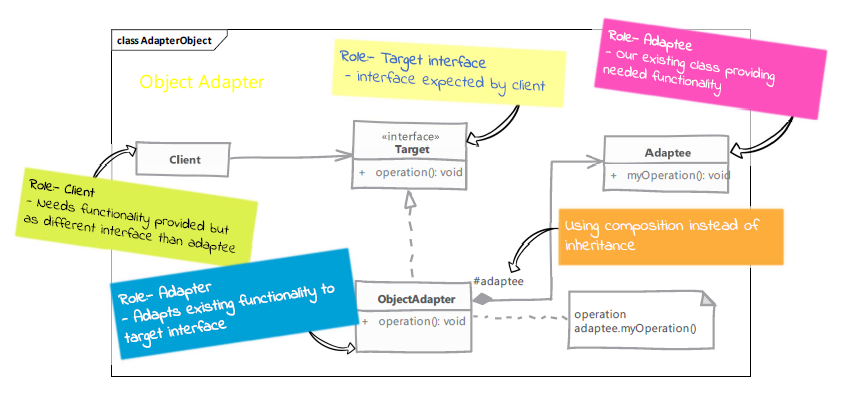
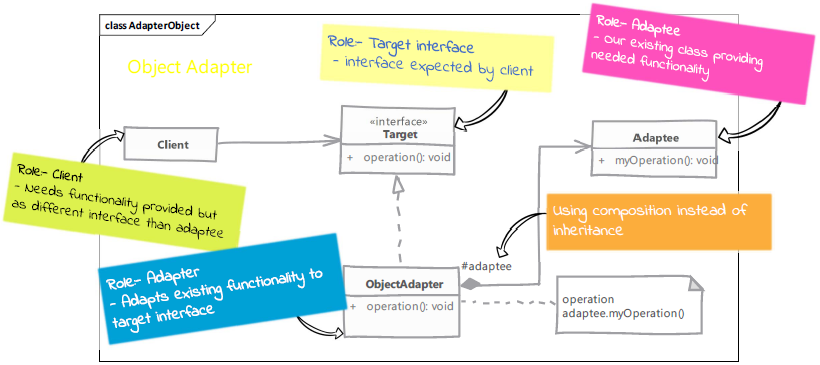
structural - adapter design pattern

Changed region(s): [[0.0, 0.0, 1.0, 0.9644], [0.4573, 0.5123, 0.4878, 0.5726]]

diff --git a/data/dp/structural.json.js b/data/dp/structural.json.js
@@ -46,58 +46,146 @@ var structural_ans = [
     {   /* Adapter */
         id : 1,
 		"text" : function(){/*
-<p style="text-align: justify;">TODO</p>
-<p><img src="data/dp/images/structural/1.1.class_adapter.png" alt="" width="800" height="400"/></p>
+<h3 style="text-align: justify;">Intent</h3>
+<p style="text-align: justify;">The <strong>Adapter</strong> pattern converts the interface of the <strong>adaptee-class</strong>
+into the <strong>target-interface</strong> that a client requires. It acts as an intermediary and lets classes work together
+that couldn’t otherwise because of an incompatible interface. The Adapter pattern is also known as <strong>Wrapper</strong>.</p>
+<h3 style="text-align: justify;">Benefits</h3>
+<ol>
+	<li style="text-align: justify;">It allows two or more previously incompatible objects to interact.</li>
+	<li style="text-align: justify;">It allows reusability of existing functionality.</li>
+</ol>
+<h3 style="text-align: justify;">Usecases</h3>
+<ol>
+	<li style="text-align: justify;">An object needs to utilize an existing class with an incompatible interface.</li>
+	<li style="text-align: justify;">You want to create a reusable class that cooperates with classes that don’t necessarily have compatible interfaces.</li>
+</ol>
+
+<p style="text-align: justify;">There are two variations of this pattern:</p>
+<ol>
+	<li style="text-align: justify;"><strong>Class Adapter</strong> — adapter <strong>extends (is-a)</strong> adaptee
+	and implements the target interface</li>
+	<li style="text-align: justify;"><strong>Object Adapter</strong> — adapter is <strong>composed of (has-a)</strong> adaptee
+	and implements the target interface</li>
+</ol>
+<p><img src="data/dp/images/structural/1.1.class_adapter.png" alt="" width="100%"/></p>
 <p style="text-align: justify;">&nbsp;</p>
-<p><img src="data/dp/images/structural/1.2.object_adapter.png" alt="" width="800" height="400"/></p>
+	<p><img src="data/dp/images/structural/1.2.object_adapter.png" alt="" width="100%"/></p>
+<p>Reference: <a href="https://github.com/rahulmitt/design-patterns/tree/master/structural/src/main/java/com/rahulmitt/interviewpedia/dp/structural/adapter" target="_blank">Github — Adapter Design Pattern</a></p>
         */}.toString().slice(14,-3)
     },
 
     {   /* Bridge */
         id : 2,
 		"text" : function(){/*
+<h3 style="text-align: justify;">Intent</h3>
 <p style="text-align: justify;">TODO</p>
-<p><img src="data/dp/images/structural/2.bridge.png" alt="" width="800" height="400"/></p>
+<h3 style="text-align: justify;">Benefits</h3>
+<ol>
+	<li style="text-align: justify;">TODO</li>
+</ol>
+<h3 style="text-align: justify;">Usecases</h3>
+<ol>
+	<li style="text-align: justify;">TODO</li>
+</ol>
+<p><img src="data/dp/images/structural/2.bridge.png" alt="" width="100%"/></p>
+
+<p>Reference: <a href="TODO" target="_blank">Github — Bridge Design Pattern</a></p>
         */}.toString().slice(14,-3)
     },
 
 	{   /* Composite */
 		id : 3,
 		"text" : function(){/*
+<h3 style="text-align: justify;">Intent</h3>
 <p style="text-align: justify;">TODO</p>
-<p><img src="data/dp/images/structural/4.composite.png" alt="" width="800" height="400"/></p>
+<h3 style="text-align: justify;">Benefits</h3>
+<ol>
+	<li style="text-align: justify;">TODO</li>
+</ol>
+<h3 style="text-align: justify;">Usecases</h3>
+<ol>
+	<li style="text-align: justify;">TODO</li>
+</ol>
+<p><img src="data/dp/images/structural/3.composite.png" alt="" width="100%"/></p>
+
+<p>Reference: <a href="TODO" target="_blank">Github — Composite Design Pattern</a></p>
         */}.toString().slice(14,-3)
 	},
 
     {   /* Decorator */
         id : 4,
 		"text" : function(){/*
+<h3 style="text-align: justify;">Intent</h3>
 <p style="text-align: justify;">TODO</p>
-<p><img src="data/dp/images/structural/3.decorator.png" alt="" width="800" height="400"/></p>
+<h3 style="text-align: justify;">Benefits</h3>
+<ol>
+	<li style="text-align: justify;">TODO</li>
+</ol>
+<h3 style="text-align: justify;">Usecases</h3>
+<ol>
+	<li style="text-align: justify;">TODO</li>
+</ol>
+<p><img src="data/dp/images/structural/4.decorator.png" alt="" width="100%"/></p>
+
+<p>Reference: <a href="TODO" target="_blank">Github — Decorator Design Pattern</a></p>
         */}.toString().slice(14,-3)
     },
 
     {   /* Facade */
         id : 5,
 		"text" : function(){/*
+<h3 style="text-align: justify;">Intent</h3>
 <p style="text-align: justify;">TODO</p>
-<p><img src="data/dp/images/structural/5.facade.png" alt="" width="800" height="400"/></p>
+<h3 style="text-align: justify;">Benefits</h3>
+<ol>
+	<li style="text-align: justify;">TODO</li>
+</ol>
+<h3 style="text-align: justify;">Usecases</h3>
+<ol>
+	<li style="text-align: justify;">TODO</li>
+</ol>
+<p><img src="data/dp/images/structural/5.facade.png" alt="" width="100%"/></p>
+
+<p>Reference: <a href="TODO" target="_blank">Github — Facade Design Pattern</a></p>
         */}.toString().slice(14,-3)
     },
 
     {   /* Flyweight */
         id : 6,
 		"text" : function(){/*
+<h3 style="text-align: justify;">Intent</h3>
 <p style="text-align: justify;">TODO</p>
-<p><img src="data/dp/images/structural/6.flyweight.png" alt="" width="800" height="400"/></p>
+<h3 style="text-align: justify;">Benefits</h3>
+<ol>
+	<li style="text-align: justify;">TODO</li>
+</ol>
+<h3 style="text-align: justify;">Usecases</h3>
+<ol>
+	<li style="text-align: justify;">TODO</li>
+</ol>
+<p><img src="data/dp/images/structural/6.flyweight.png" alt="" width="100%"/></p>
+
+<p>Reference: <a href="TODO" target="_blank">Github — Flyweight Design Pattern</a></p>
         */}.toString().slice(14,-3)
     },
 
     {   /* Proxy */
         id : 7,
 		"text" : function(){/*
+<h3 style="text-align: justify;">Intent</h3>
 <p style="text-align: justify;">TODO</p>
-<p><img src="data/dp/images/structural/7.proxy.png" alt="" width="800" height="400"/></p>
+<h3 style="text-align: justify;">Benefits</h3>
+<ol>
+	<li style="text-align: justify;">TODO</li>
+</ol>
+<h3 style="text-align: justify;">Usecases</h3>
+<ol>
+	<li style="text-align: justify;">TODO</li>
+</ol>
+<p><img src="data/dp/images/structural/7.proxy.png" alt="" width="100%"/></p>
+
+<p>Reference: <a href="TODO" target="_blank">Github — Proxy Design Pattern</a></p>
         */}.toString().slice(14,-3)
     },
 
